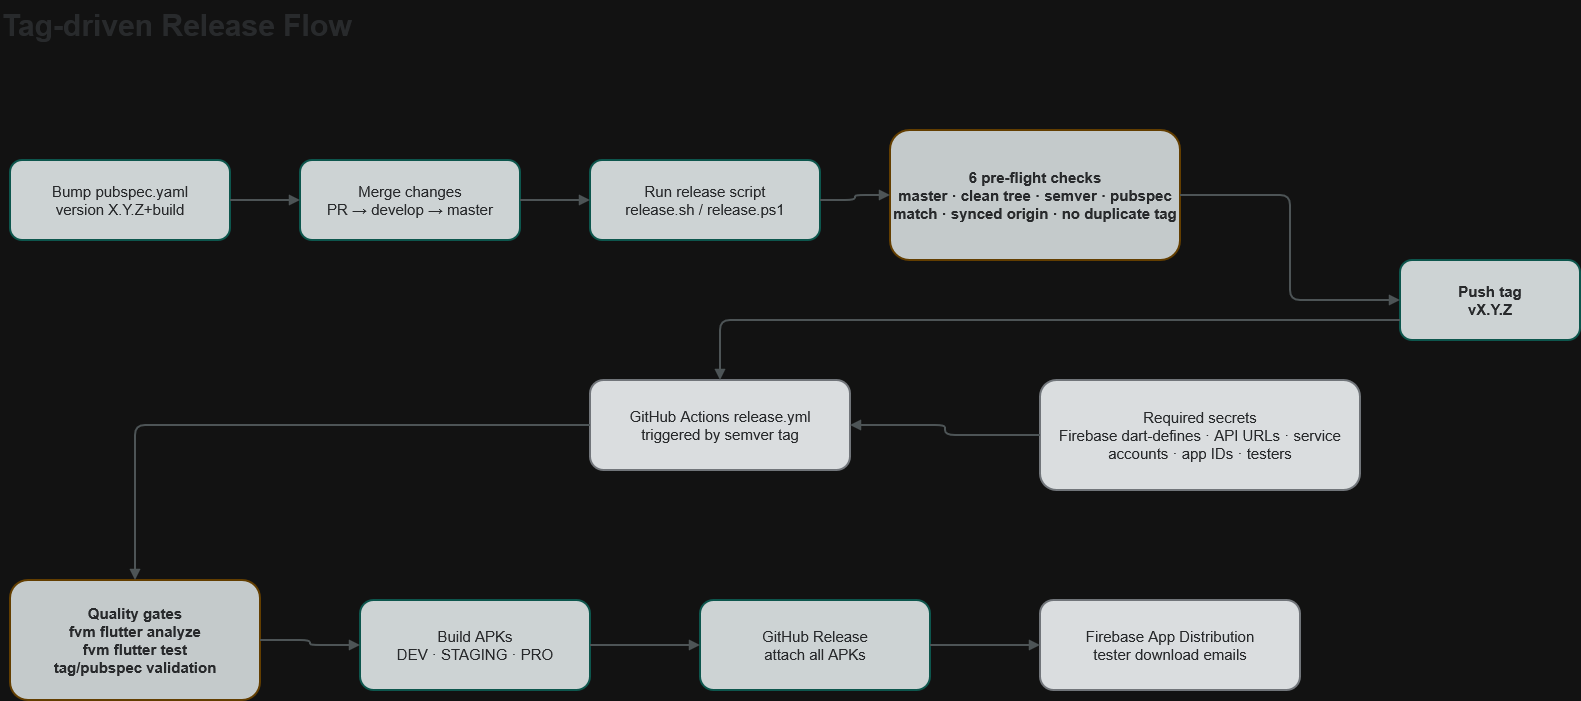
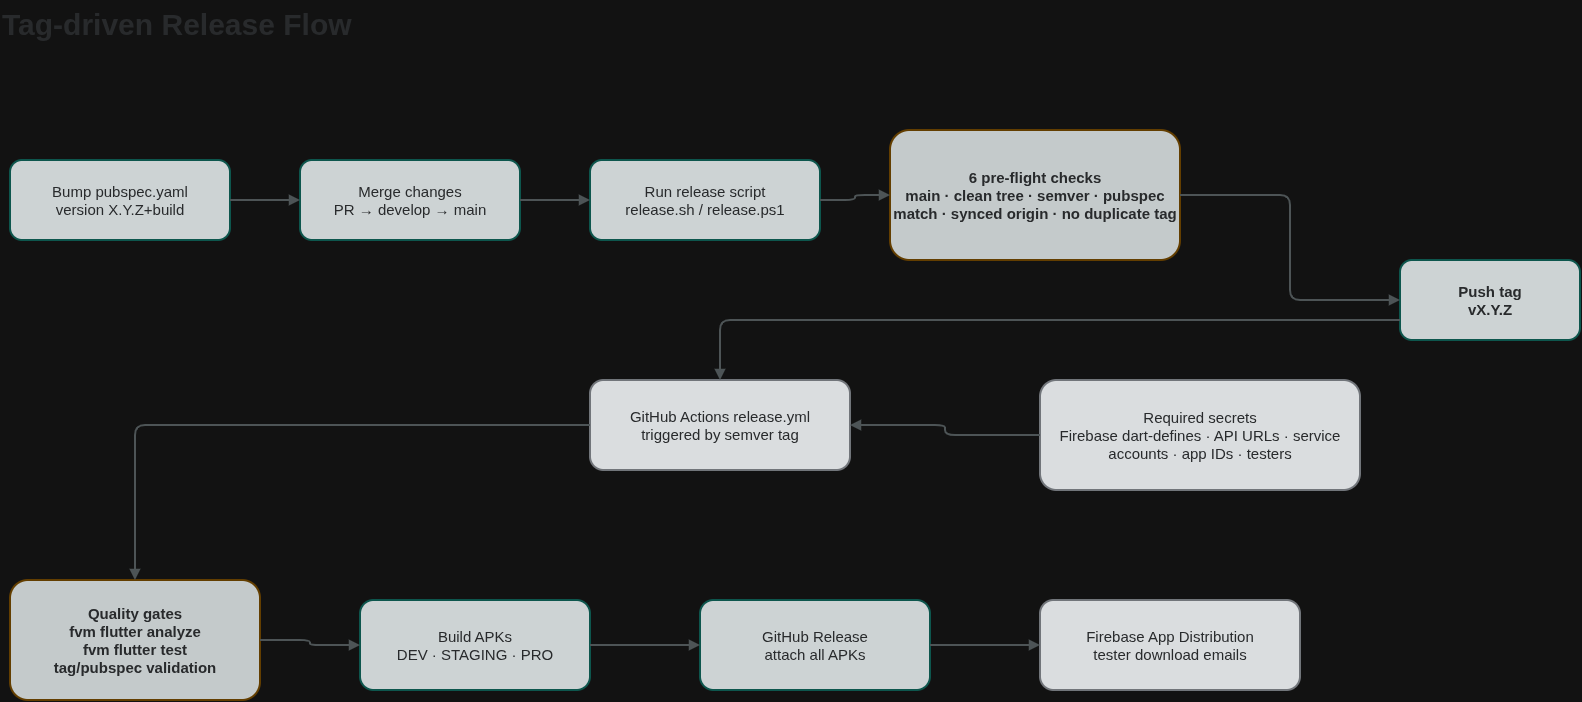
docs: add test user credentials to README

diff --git a/README.es.md b/README.es.md
@@ -244,7 +244,7 @@ Dirección de capas: `Presentation → Domain ← Data` — el dominio no depend
 <tr><td>🔌 <b>APIs backend</b></td><td><code>dev</code> <code>https://api.dev.inkscroller.devdigi.dev</code> · <code>staging</code> <code>https://api.stg.inkscroller.devdigi.dev</code> · <code>pro</code> <code>https://api.inkscroller.devdigi.dev</code></td></tr>
 <tr><td>📽️ <b>Diapositivas</b></td><td>En proceso — todavía no publicadas</td></tr>
 <tr><td>🎬 <b>Vídeo demo</b></td><td>En proceso — todavía no publicado</td></tr>
-<tr><td>👤 <b>Usuario prueba</b></td><td>No requerido — la app permite crear una cuenta desde el registro con email/contraseña</td></tr>
+<tr><td>👤 <b>Usuario prueba</b></td><td><code>[email redacted]</code> / <code>1234qweASD-</code> (ya verificado). Para probar el flujo de verificación, registrate con tu propio email.</td></tr>
 </tbody>
 </table>
 

diff --git a/README.md b/README.md
@@ -245,7 +245,7 @@ Layer direction: `Presentation → Domain ← Data` — domain stays framework-a
 <tr><td>🔌 <b>Backend APIs</b></td><td><code>dev</code> <code>https://api.dev.inkscroller.devdigi.dev</code> · <code>staging</code> <code>https://api.stg.inkscroller.devdigi.dev</code> · <code>pro</code> <code>https://api.inkscroller.devdigi.dev</code></td></tr>
 <tr><td>📽️ <b>Slides</b></td><td>Work in progress — not published yet</td></tr>
 <tr><td>🎬 <b>Demo video</b></td><td>Work in progress — not published yet</td></tr>
-<tr><td>👤 <b>Test user</b></td><td>Not required — users can create an account from the app with email/password registration</td></tr>
+<tr><td>👤 <b>Test user</b></td><td><code>[email redacted]</code> / <code>1234qweASD-</code> (already verified). To test the email verification flow, register with your own email instead.</td></tr>
 </tbody>
 </table>
 